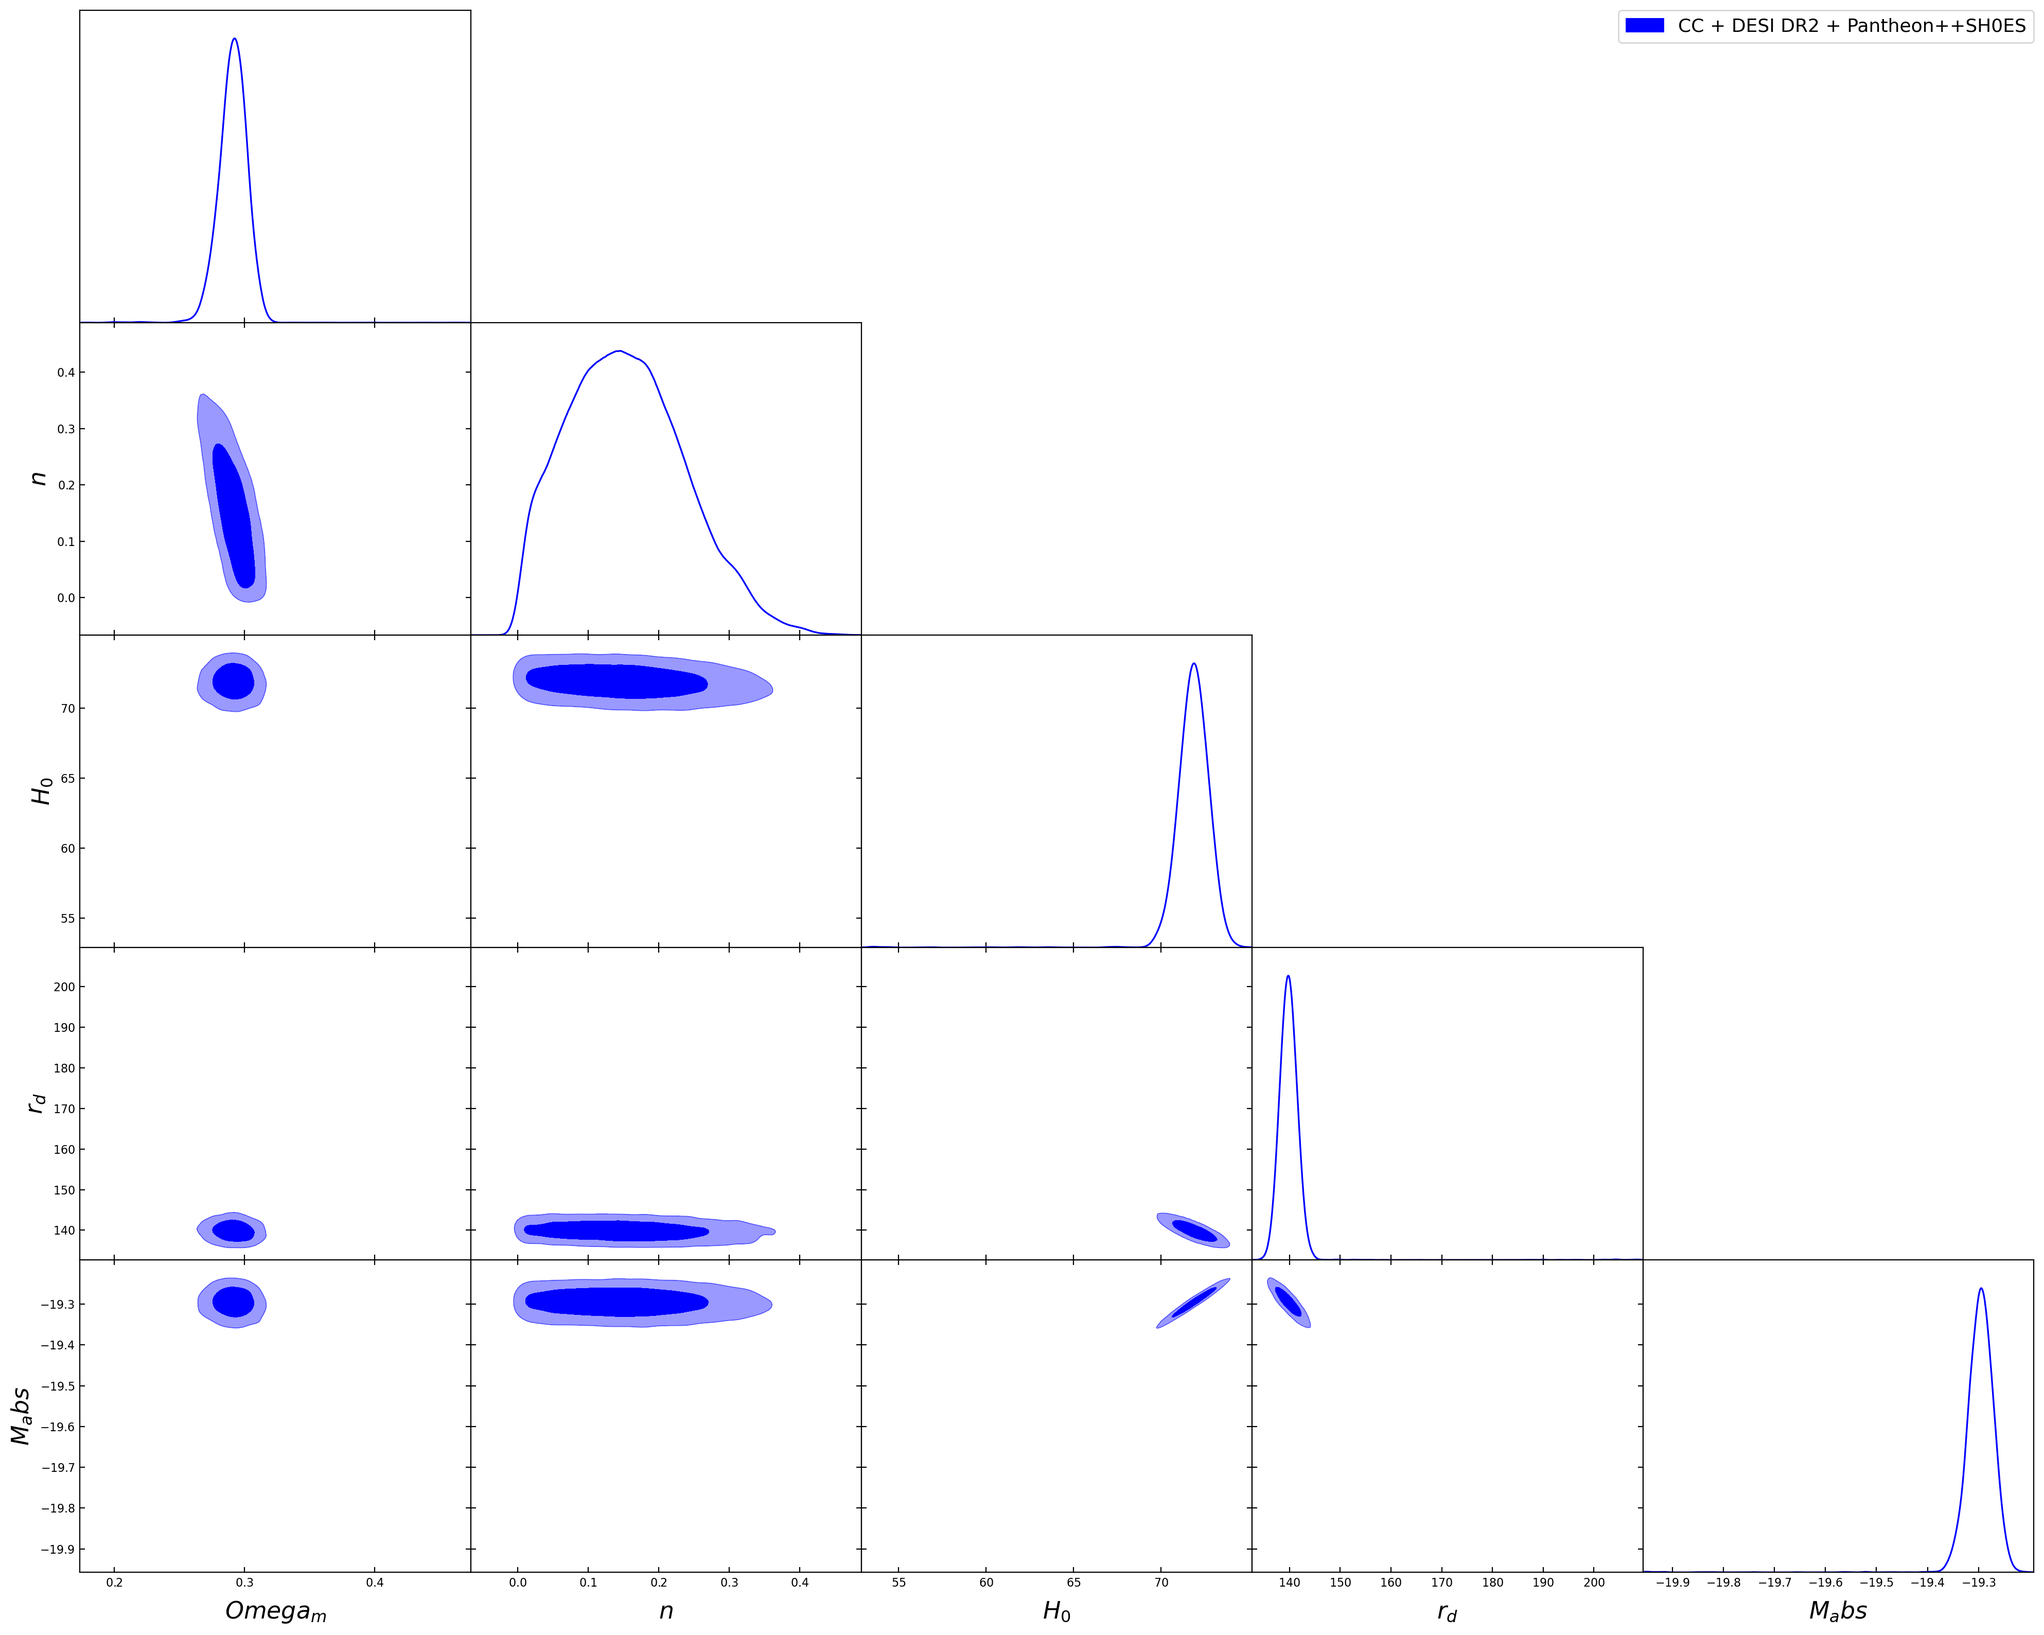
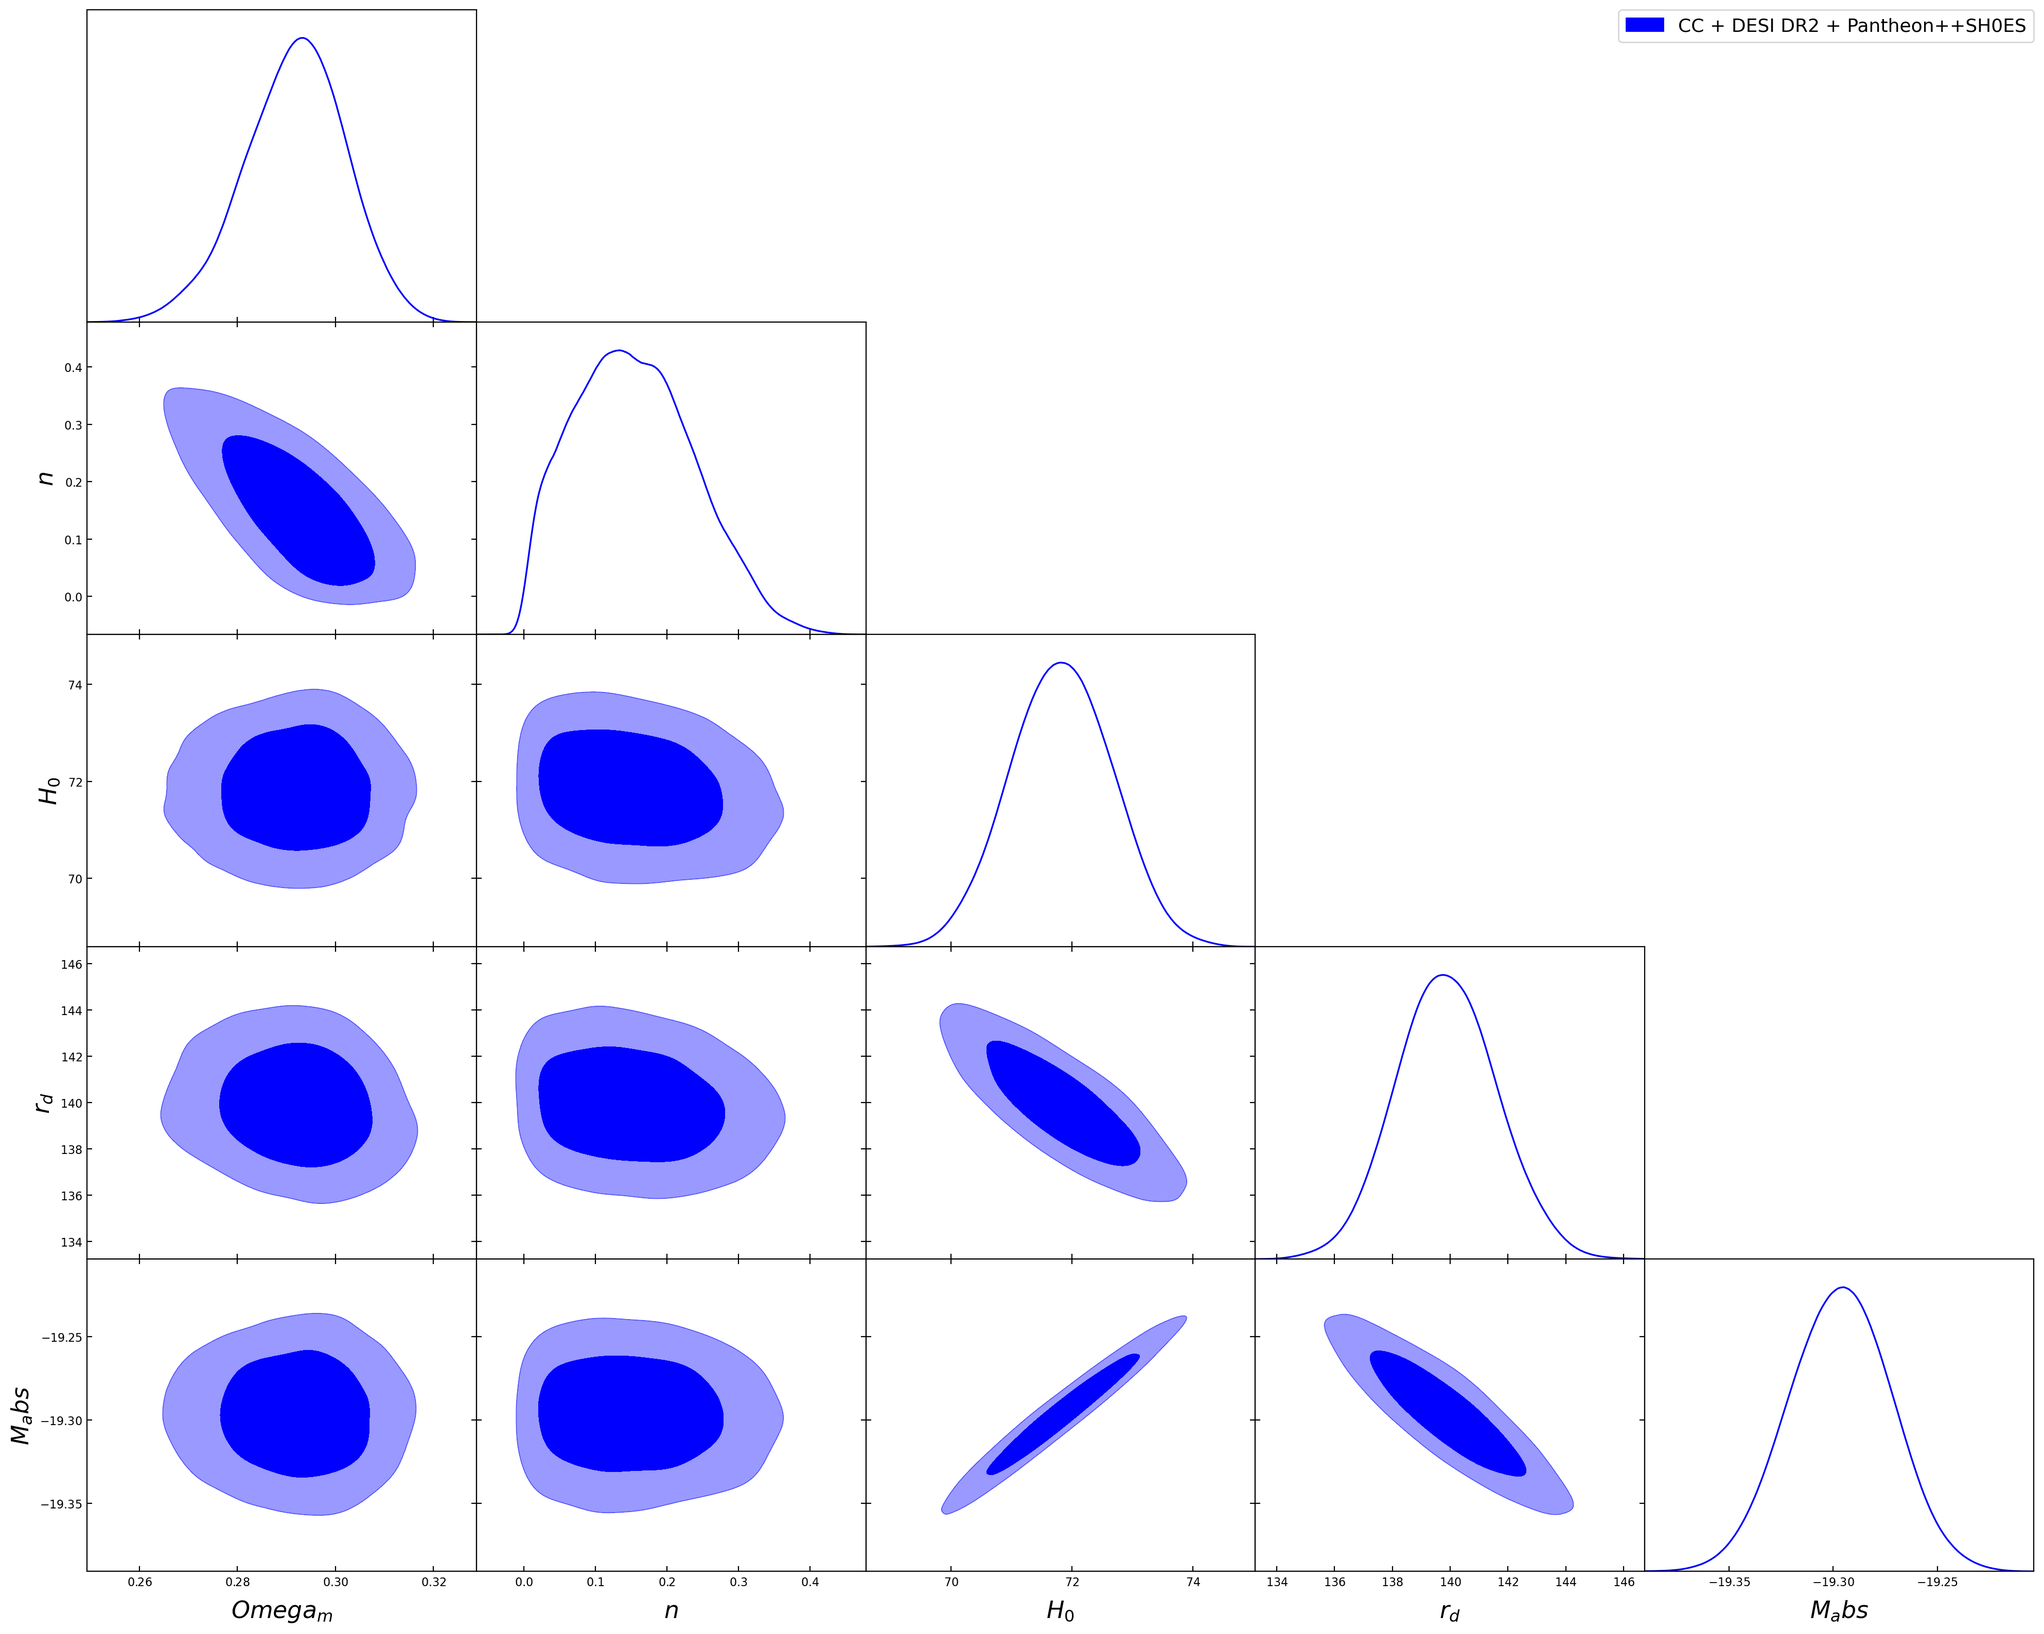
Changed from median values to MLE's used for statistical calculations

diff --git a/Kosmulator_main/Kosmulator_MCMC.py b/Kosmulator_main/Kosmulator_MCMC.py
@@ -367,12 +367,11 @@ def batch_post(theta, data, CONFIG, MODEL_func, model_name, obs, Type, obs_index
 
     return out[0] if nwalkers == 1 else out
 
-
 def _zeus_logpost_vectorized(theta, data, CONFIG, MODEL_func, model_name, obs, Type, obs_index):
-    """Zeus log-posterior for vectorised models (always returns 1D array)."""
-    arr = np.atleast_2d(theta)
-    out = batch_post(arr, data, CONFIG, MODEL_func, model_name, obs, Type, obs_index)
-    return np.asarray(out, dtype=float).ravel()
+    """Zeus log-posterior for vectorised models."""
+    val = batch_post(theta, data, CONFIG, MODEL_func, model_name, obs, Type, obs_index)
+    # CRITICAL FIX: .ravel() guarantees a 1D array, preventing 0-d iteration crashes in Zeus
+    return np.asarray(val, dtype=float).ravel()
 
 
 def _zeus_logpost_scalar(theta, data, CONFIG, MODEL_func, model_name, obs, Type, obs_index):
@@ -1009,6 +1008,23 @@ def run_mcmc(
                 pass
             with h5py.File(zeus_chain, "r") as f:
                 all_samples = f["samples"][:]
+        # Save Blobs from Zeus if available
+        # Explicitly save log_prob and blobs from Zeus
+        if saveChains:
+            with h5py.File(zeus_chain, "a") as h5f:
+                try:
+                    # 1. Save log_prob
+                    flat_log_prob = sampler.get_log_prob(discard=burn, flat=True)
+                    if "log_prob" in h5f:
+                        del h5f["log_prob"]
+                    h5f.create_dataset("log_prob", data=flat_log_prob)
+
+                    # 2. Flat top-hat priors everywhere → log_prob == log_like exactly
+                    if "log_like" in h5f:
+                        del h5f["log_like"]
+                    h5f.create_dataset("log_like", data=flat_log_prob)
+                except Exception as e:
+                    print(f"\n[WARNING] Could not save 'log_prob'/'log_like' from Zeus: {e}")
 
         return all_samples[burn:, :, :].reshape(-1, ndim)
 
@@ -1068,7 +1084,7 @@ def run_mcmc(
                     local_burn = max(0, burn - current)
                     obs_for_plot = [_resolved_key]
 
-                    flat_samples = utils.emcee_autocorr_stopping(
+                    res = utils.emcee_autocorr_stopping(
                         last_state,
                         sampler,
                         nsteps - current,
@@ -1087,7 +1103,7 @@ def run_mcmc(
                         print_enabled=print_enabled,
                         print_every=print_every,
                     )
-                    return flat_samples
+                    flat_samples = res[0] if isinstance(res, tuple) else res
                 else:
                     # Manual loop to allow step printing (Pool-safe)
                     for state in sampler.sample(
@@ -1115,7 +1131,25 @@ def run_mcmc(
                                         f"Max={np.nanmax(lp):.4f} | Mean={np.nanmean(lp):.4f}"
                                     )
 
-                    return sampler.get_chain(discard=burn, flat=True)
+                    flat_samples = sampler.get_chain(discard = burn, flat = True)
+                #Extract and write log_prob + loglike on resume
+                if saveChains:
+                    flat_log_prob = sampler.get_log_prob(discard = burn, flat = True)
+                    blobs = sampler.get_blobs(discard = burn, flat = True)
+                    with h5py.File(chain_path, "a") as h5f:
+                        h5f.attrs["converged"] = True
+                        if "log_prob" in h5f:
+                            del h5f["log_prob"]
+                        h5f.create_dataset("log_prob",data = flat_log_prob)
+
+                        if blobs is not None:
+                            flat_log_like = np.squeeze(
+                                np.asarray(blobs, dtype = float)
+                            )
+                            if "log_like" in h5f:
+                                del h5f["log_like"]
+                            h5f.create_dataset("log_like", data = flat_log_like)
+            return flat_samples
 
         # ------------------------------------------------------------
         # Fresh emcee run
@@ -1142,7 +1176,7 @@ def run_mcmc(
 
         if autoCorr:
             obs_for_plot = [_resolved_key]
-            flat_samples = utils.emcee_autocorr_stopping(
+            res = utils.emcee_autocorr_stopping(
                 pos0,
                 sampler,
                 nsteps,
@@ -1161,6 +1195,9 @@ def run_mcmc(
                 print_enabled=print_enabled,
                 print_every=print_every,
             )
+            flat_samples = res[0] if isinstance(res, tuple) else res
+            flat_log_prob = sampler.get_log_prob(discard = burn, flat = True)
+            blobs = sampler.get_blobs(discard = burn, flat = True)
         else:
             # Manual loop to allow step printing (Pool-safe)
             for state in sampler.sample(pos0, iterations=nsteps, progress=True):
@@ -1187,11 +1224,26 @@ def run_mcmc(
                             )
 
             flat_samples = sampler.get_chain(discard=burn, flat=True)
+            flat_log_prob = sampler.get_log_prob(discard=burn, flat=True)
+            blobs = sampler.get_blobs(discard = burn, flat = True)
 
         print(f"Emcee sampling took {utils.format_elapsed_time(time.time() - start)}\n")
+
         if saveChains:
             with h5py.File(chain_path, "a") as h5f:
                 h5f.attrs["converged"] = True
+
+                #Saving the log_probs to use for stats
+                if "log_prob" in h5f:
+                    del h5f["log_prob"]
+                h5f.create_dataset("log_prob", data = flat_log_prob)
+
+                #Save raw log_like blob
+                if blobs is not None:
+                    flat_log_like = np.squeeze(np.asarray(blobs, dtype = float))
+                    if "log_like" in h5f:
+                        del h5f["log_like"]
+                    h5f.create_dataset("log_like", data = flat_log_like)
 
         return flat_samples
 

diff --git a/Kosmulator_main/Post_processing.py b/Kosmulator_main/Post_processing.py
@@ -92,8 +92,23 @@ def calculate_asymmetric_from_samples(samples, parameters, observations):
     """
     results, latex_table, structured_values = {}, [], {}
 
-    for obs, obs_samples in samples.items():
+    for obs, obs_data_input in samples.items():
         results[obs], structured_values[obs], row = {}, {}, []
+
+        #Unpack the dictionary data and find the Maximum likelihood
+        if isinstance(obs_data_input, dict):
+            obs_samples = obs_data_input["samples"]
+            log_like = obs_data_input.get("loglike")
+        else:
+            obs_samples = obs_data_input
+            log_like = None
+
+        if log_like is not None:
+            mle_idx = np.nanargmax(log_like)
+            mle_vector = obs_samples[mle_idx]
+        else:
+            mle_vector = None
+
 
         # Match the observation key to its corresponding parameter list.
         # Accept the raw joined name ("PantheonP"), underscore join ("PantheonP"),
@@ -141,6 +156,7 @@ def calculate_asymmetric_from_samples(samples, parameters, observations):
         param_index = observations.index(obs_list)
         obs_param_names = parameters[param_index]
 
+        
         # Iterate over the parameters for this observation
         for param_index, param in enumerate(obs_param_names):
             # Check that the parameter index is within bounds of obs_samples
@@ -152,6 +168,9 @@ def calculate_asymmetric_from_samples(samples, parameters, observations):
                 median = p50
                 lower_error = p50 - p16
                 upper_error = p84 - p50
+
+                #Grab MLE for this parameter
+                mle_val = mle_vector[param_index] if mle_vector is not None else median
 
                 # Add to results
                 results[obs][param] = {
@@ -168,6 +187,7 @@ def calculate_asymmetric_from_samples(samples, parameters, observations):
                     round(median, 3),
                     round(median + upper_error, 3),
                     round(median - lower_error, 3),
+                    mle_val
                 ]
             else:
                 print(
@@ -300,7 +320,10 @@ def statistical_analysis(best_fit_values, data, CONFIG, true_model):
         results[model_name] = {}
         for obs_name, params in obs_results.items():
             # Extract best-fit (median) values into a dictionary.
-            param_dict = {param: values[0] for param, values in params.items()}
+            param_dict = {
+                param: (values[3] if len(values) > 3 else values[0])
+                for param, values in params.items()
+            }
             num_params = len(param_dict)
             #DEBUG STATEMENT
             print(f"[DEBUG] model={model_name} obs={obs_name}")
@@ -761,19 +784,19 @@ def interpret_delta_IC(
     #AICc implementation:
     if delta_aicc < 2:
         feedback.append(
-            f"Delta AICc: Indistinguishable (ΔAIC = {delta_aicc:.2f})."
+            f"Delta AICc: Indistinguishable (ΔAICc = {delta_aicc:.2f})."
         )
     elif delta_aicc < 4:
         feedback.append(
-            f"Delta AICc: Slight evidence against the model (ΔAIC = {delta_aicc:.2f})."
+            f"Delta AICc: Slight evidence against the model (ΔAICc = {delta_aicc:.2f})."
         )
     elif delta_aicc < 7:
         feedback.append(
-            f"Delta AICc: Positive evidence against the model (ΔAIC = {delta_aicc:.2f})."
+            f"Delta AICc: Positive evidence against the model (ΔAICc = {delta_aicc:.2f})."
         )
     else:
         feedback.append(
-            f"Delta AICc: Strong evidence against the model (ΔAIC = {delta_aicc:.2f})."
+            f"Delta AICc: Strong evidence against the model (ΔAICc = {delta_aicc:.2f})."
         )
 
     return "\n".join(feedback)

diff --git a/Kosmulator_main/utils.py b/Kosmulator_main/utils.py
@@ -981,14 +981,26 @@ def load_or_run_chain(
         )
         with h5py.File(zeus_chain, "r") as f:
             all_samples = f["samples"][:]    # (nsteps, nwalker, ndim)
+            loglike = np.array(f["log_like"]) if "log_like" in f else (
+                np.array(f["log_prob"]) if "log_prob" in f else None
+            )
 
         burn = int(CONFIG_model.get("burn", 0) or 0)
         # Guard against silly values
         if burn >= all_samples.shape[0]:
             burn = 0
 
-        # Flatten to (n_samples, ndim) as usual
-        return all_samples[burn:, :, :].reshape(-1, all_samples.shape[-1])
+        flat = all_samples[burn:, :, :].reshape(-1, all_samples.shape[-1])
+        """
+        NOTE: loglike above is unburned/unflattened relative to `flat` in this
+        # particular reuse path (Zeus stores log_prob already burn-discarded at
+        # save time in run_mcmc, so this is likely already aligned — verify
+        # shapes match len(flat) before trusting it; fall back to None if not.
+        """
+        if loglike is not None and loglike.shape[0] != flat.shape[0]:
+            loglike = None
+        return {"samples": flat, "loglike": loglike}
+
         
     # A) Existing chain, not overwriting (emcee only)
     # For vectorised/Zeus runs we *always* delegate loading/resume to
@@ -1082,7 +1094,7 @@ def load_or_run_chain(
         )
         
     # B) Fresh run (or Zeus load/resume)
-    flat_samples = Kosmulator_MCMC.run_mcmc(
+    result = Kosmulator_MCMC.run_mcmc(
         data=data,
         saveChains=True,
         chain_path=chain_path,
@@ -1107,13 +1119,17 @@ def load_or_run_chain(
         obs_key=other_kwargs.get("obs_key"),
     )
 
+    flat_samples = result.get("samples") if isinstance(result, dict) else result
+
     if (
         flat_samples is None
         or flat_samples.size == 0
         or not np.any(np.isfinite(flat_samples))
     ):
         print(f"[WARNING] Samples for {chain_file} are empty or invalid!")
-    return flat_samples
+    if isinstance(result, dict):
+        return result
+    return {"samples": flat_samples, "loglike": None}
 
 
 # ───────────────────────────────────────────────────────────────────────────────

diff --git a/Plots/Plots.py b/Plots/Plots.py
@@ -351,6 +351,7 @@ def generate_plots(All_Samples, CONFIG, PLOT_SETTINGS, data, true_model):
     import os
     from collections import defaultdict
 
+    
     # unify roots
     normalize_save_roots(PLOT_SETTINGS)
 
@@ -744,6 +745,8 @@ def make_CornerPlot(Samples, CONFIG, model_name, save_file_name, PLOT_SETTINGS):
           If True, the printed/top table shows ALL parameters (recommended).
           If False, the printed/top table mirrors whatever appears on the corner axes.
     """
+
+    
     # 1) union of parameters across all observation groups (first-seen order)
     full_param_order, _seen = [], set()
     for plist in CONFIG["parameters"]:
@@ -874,12 +877,15 @@ def make_CornerPlot(Samples, CONFIG, model_name, save_file_name, PLOT_SETTINGS):
                 f"Available={list(Samples.keys())}"
             )
 
-        sample = Samples[found]
-        print(f"[DEBUG] obs={found} sample.shape={np.asarray(sample).shape}")
+        sample_data = Samples[found]
+
+        #Extract raw array from getdist without damaging the dictionary
+        sample_array = sample_data["samples"] if isinstance(sample_data, dict) else sample_data
+        print(f"[DEBUG] obs={found} sample.shape={np.asarray(sample_array).shape}")
         names  = CONFIG["parameters"][i]
         labels = greek_Symbols(names) if use_latex else names
 
-        ms = MCSamples(samples=sample, names=names, labels=labels)
+        ms = MCSamples(samples=sample_array, names=names, labels=labels)
         ms.plotColor = palette[i % len(palette)]
         distributions.append(ms)
 
@@ -966,6 +972,10 @@ def make_CornerPlot(Samples, CONFIG, model_name, save_file_name, PLOT_SETTINGS):
         if obs_samples is None:
             derived_rd_col.append("—")
             continue
+
+        #Extract array here too so numpy can slice it
+        if isinstance(obs_samples, dict) and "samples" in obs_samples:
+            obs_samples = obs_samples["samples"]
 
         names = CONFIG["parameters"][i]
 
